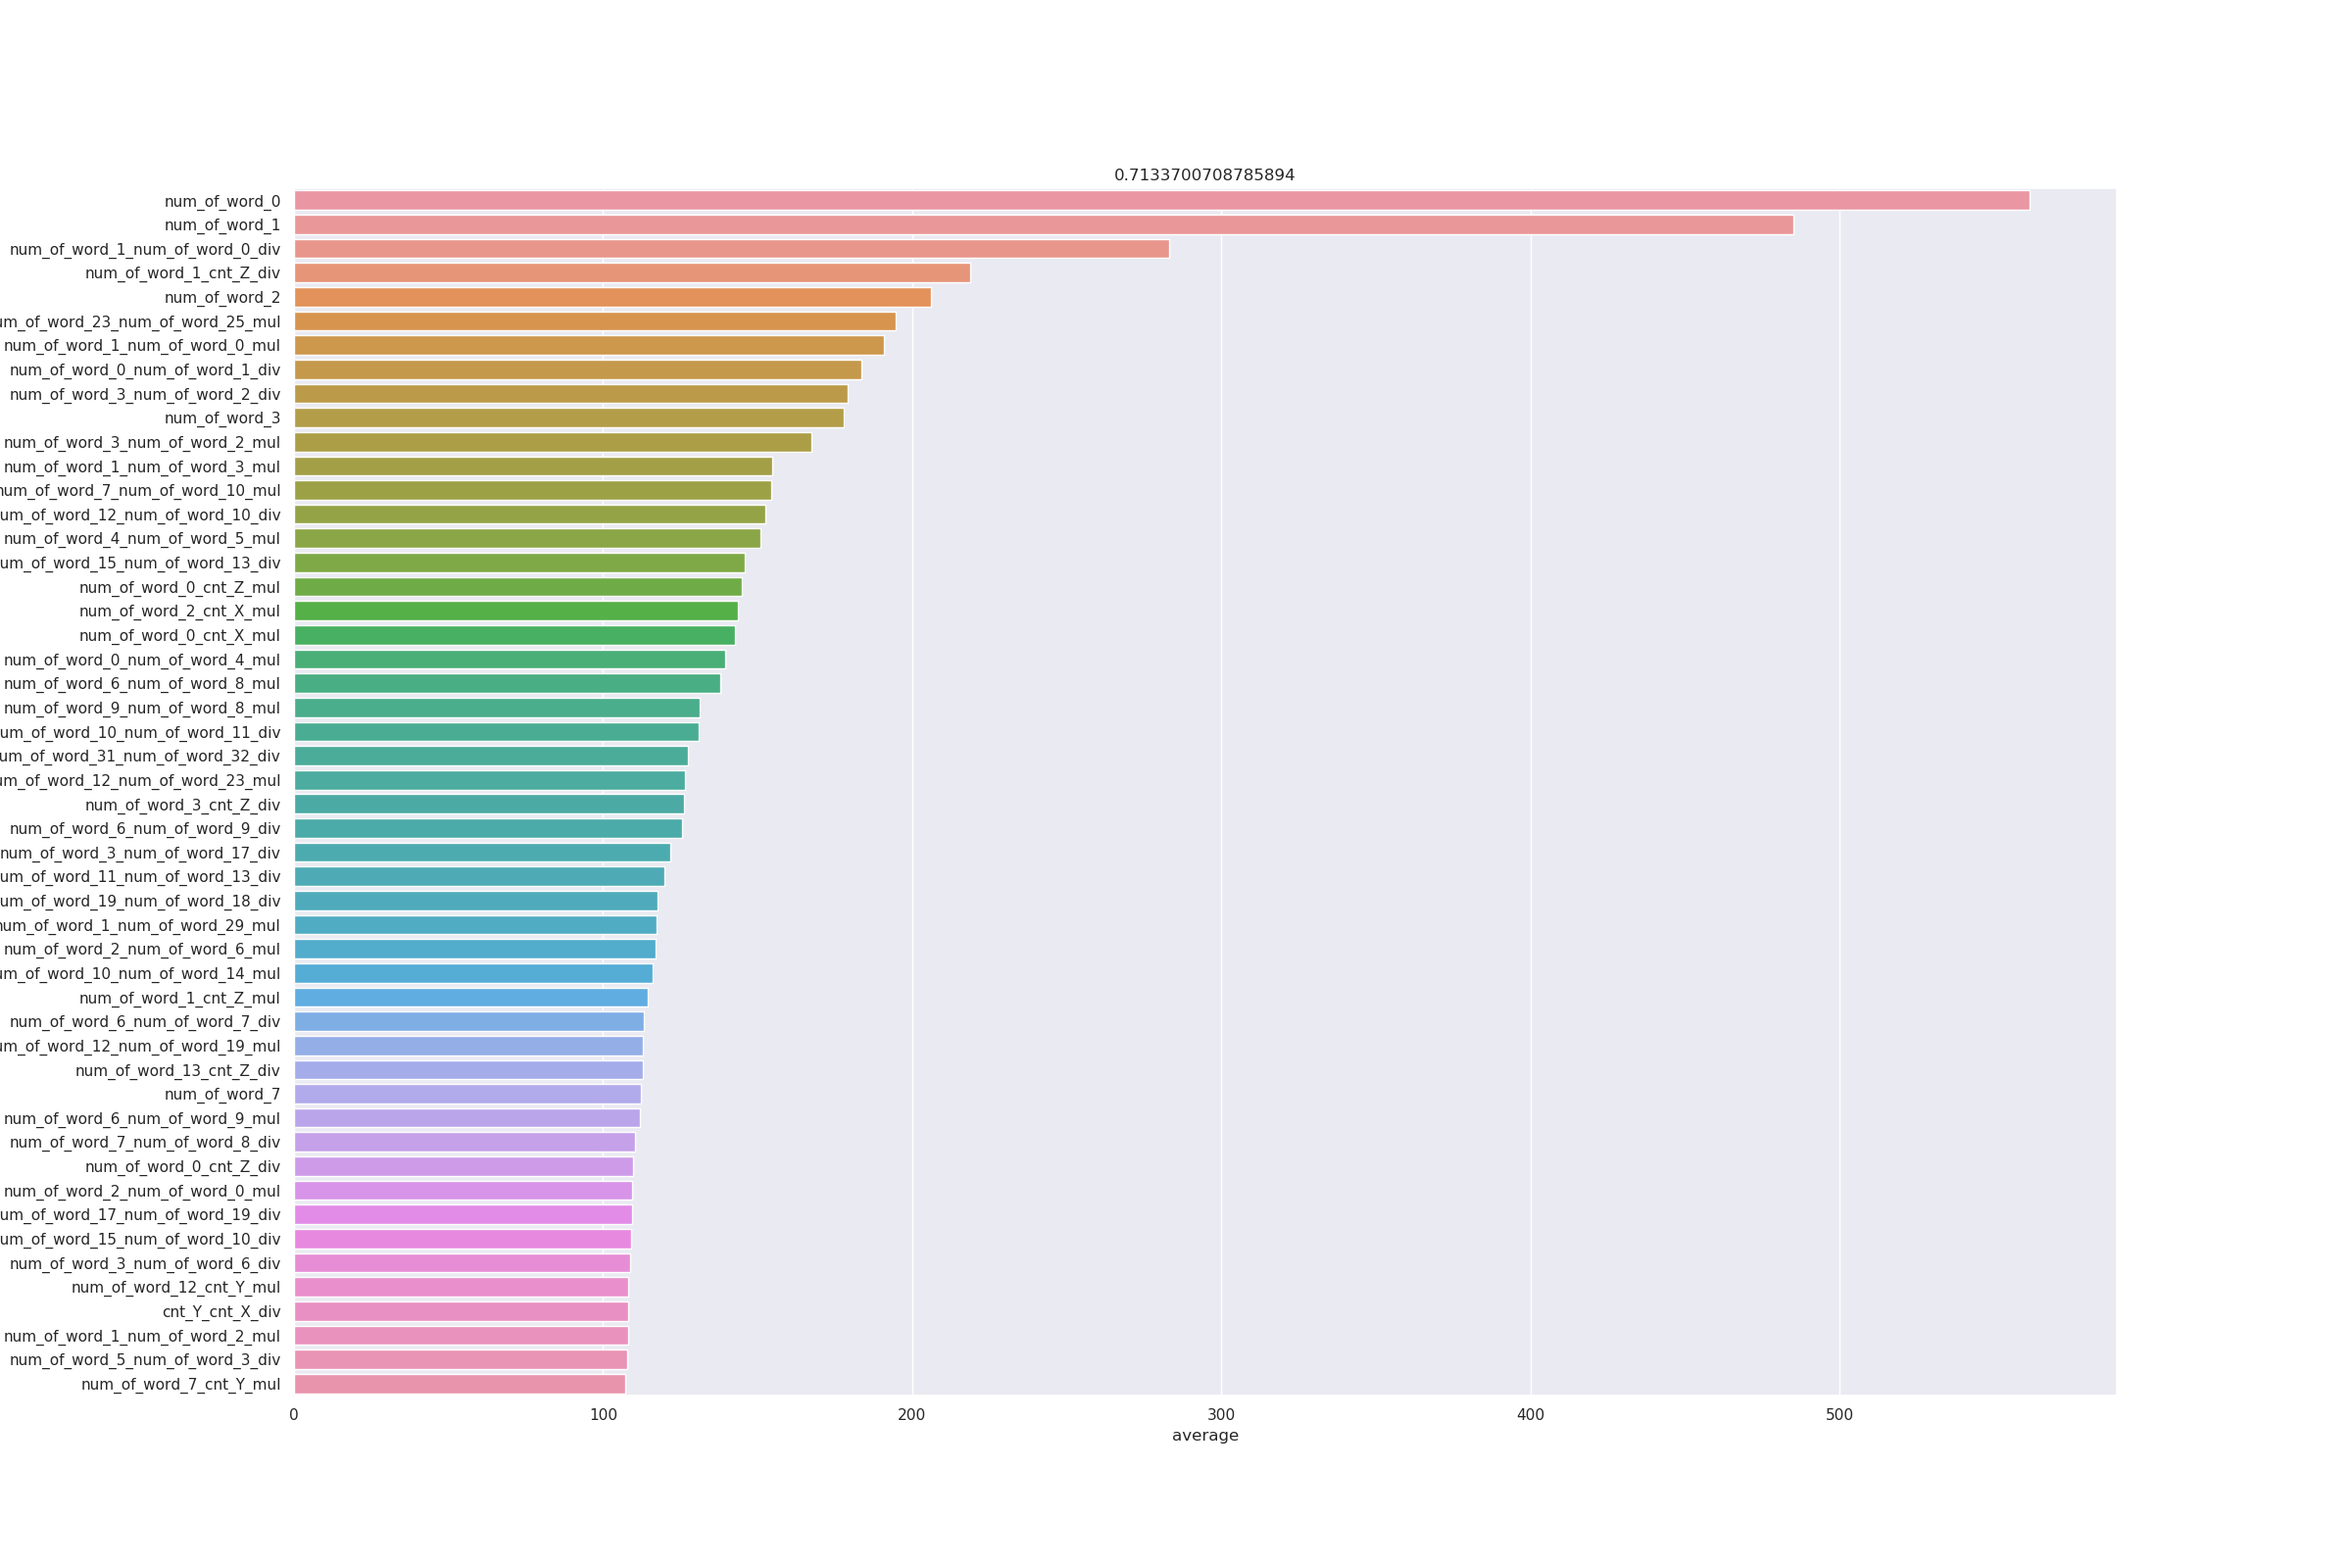
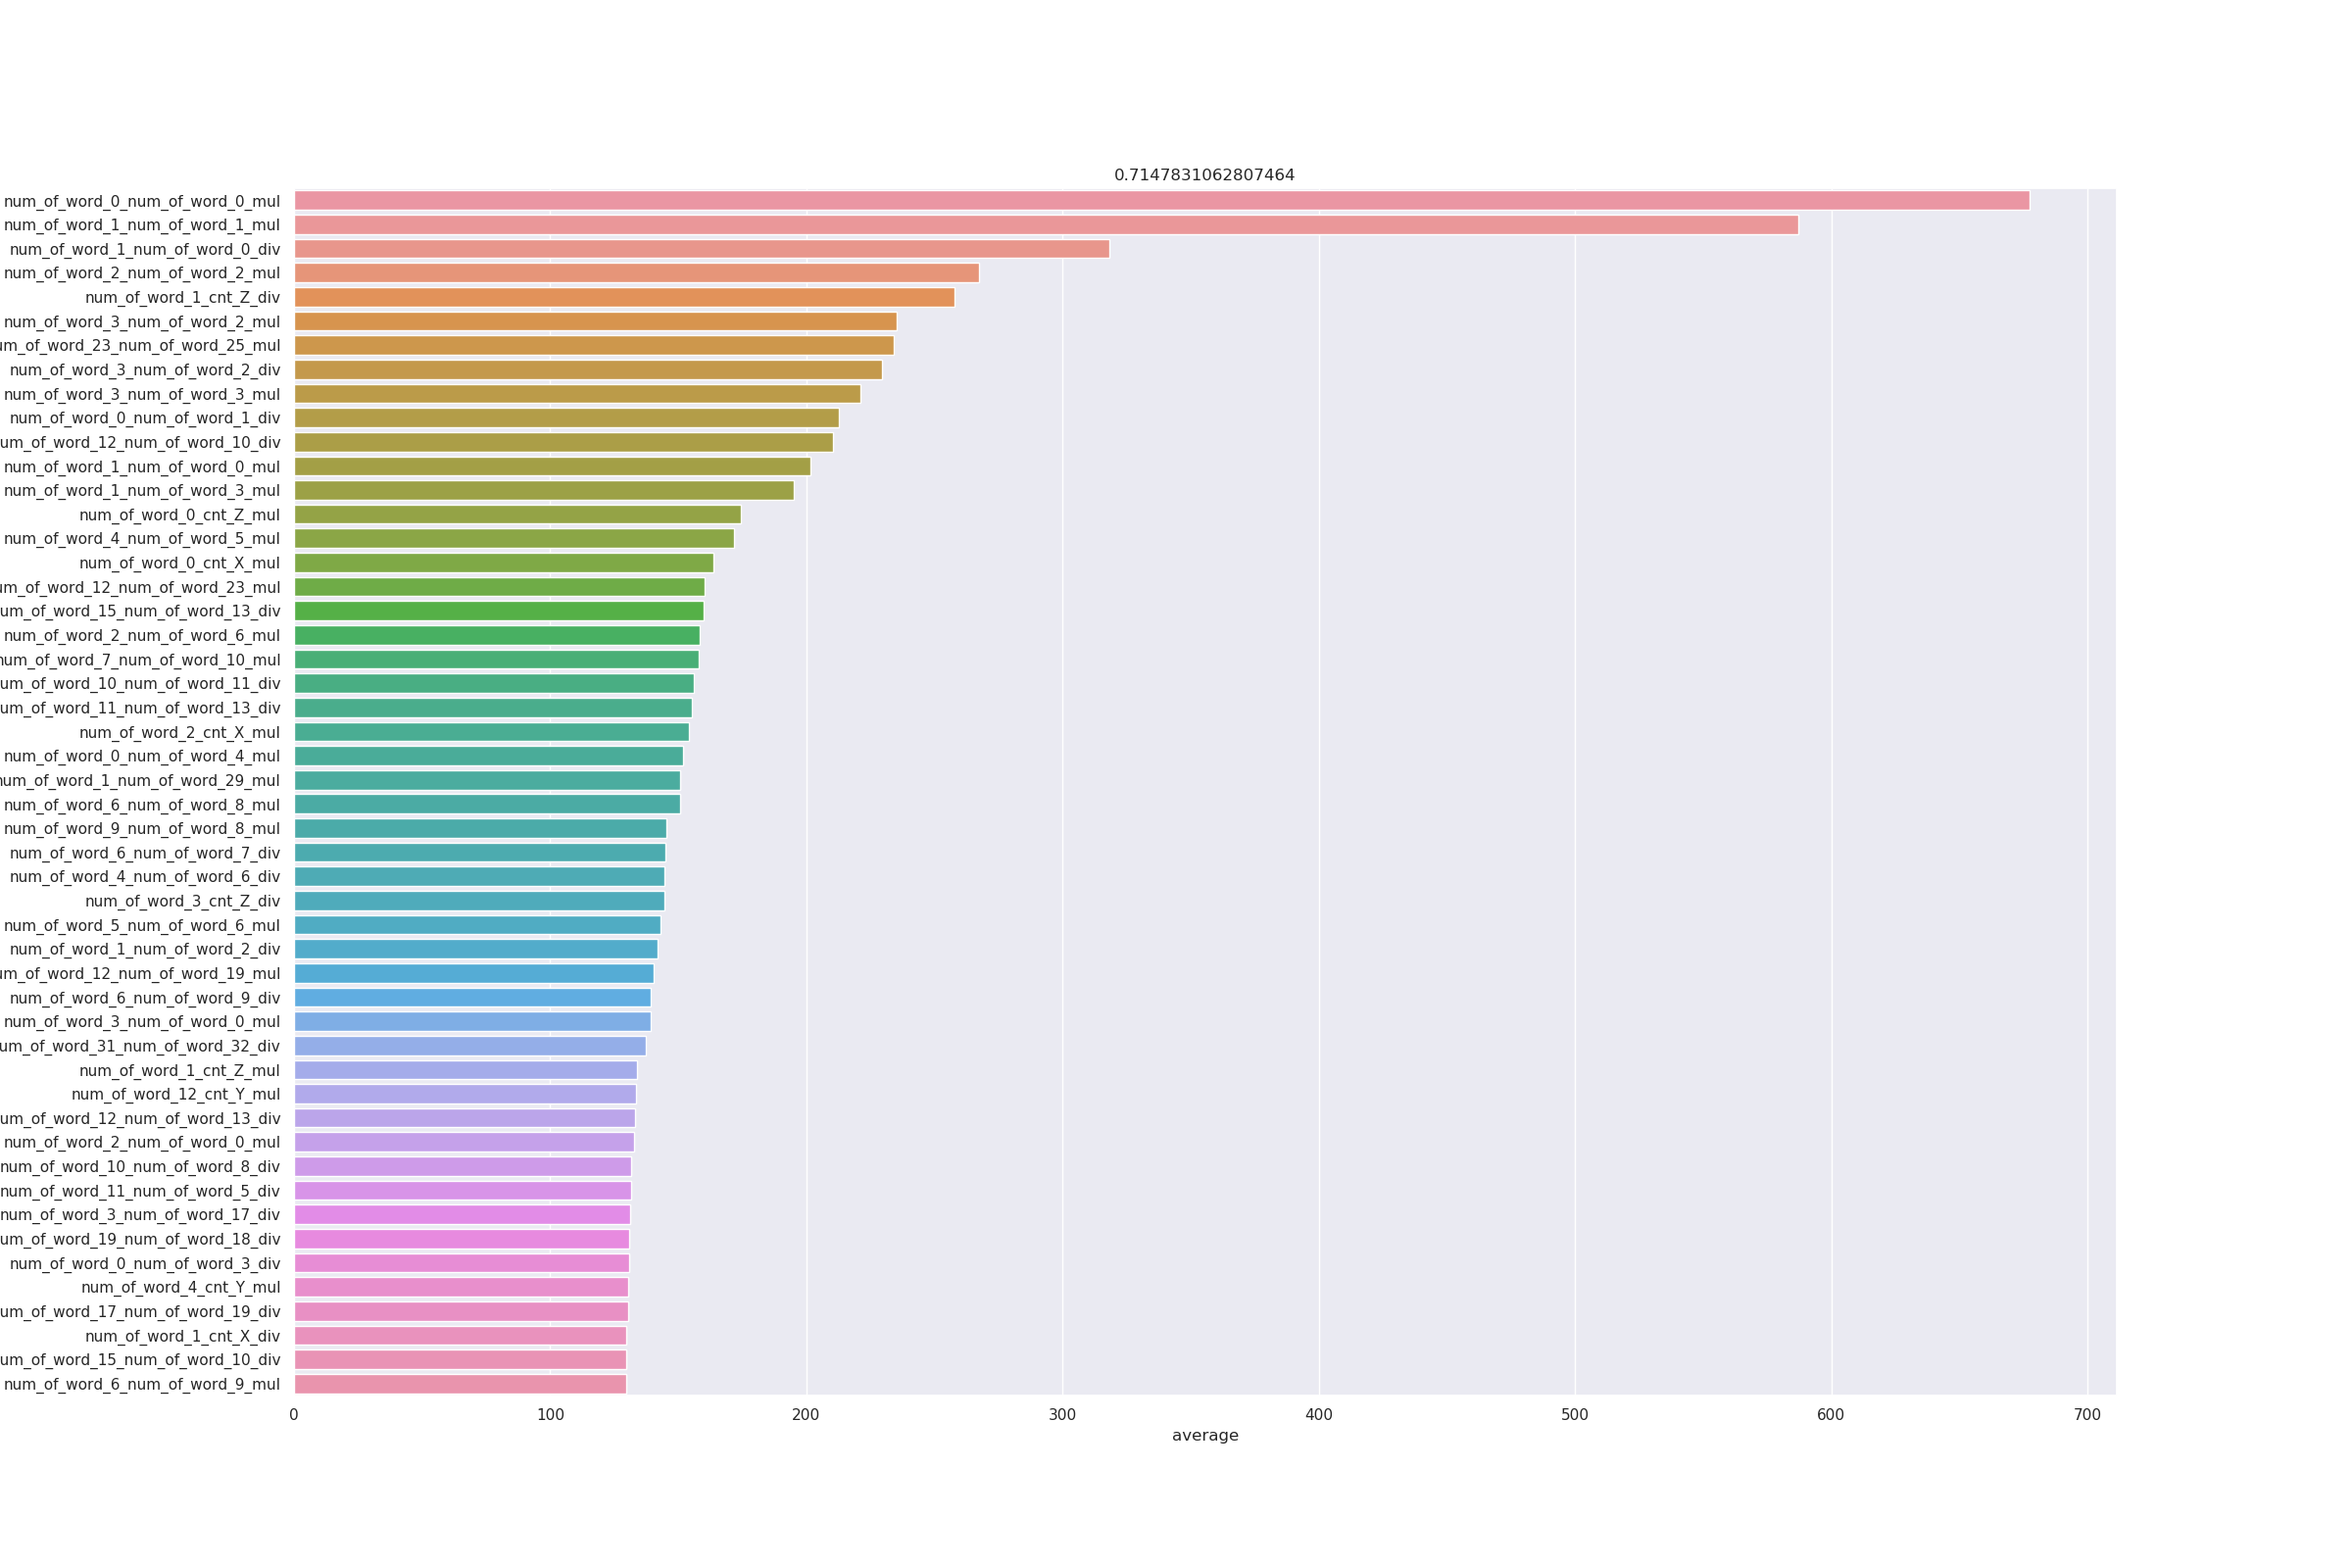
a

diff --git a/bin/train_lgbm.py b/bin/train_lgbm.py
@@ -51,7 +51,7 @@ X=X.loc[:,use_col]
 
 del_list=["num_of_word_0","num_of_word_1","num_of_word_2","num_of_word_3"]
 #del_list=["num_of_word_0_num_of_word_0_mul","num_of_word_1_num_of_word_1_mul"]
-#X.drop(del_list,axis=1,inplace=True)
+X.drop(del_list,axis=1,inplace=True)
 
 # config
 NFOLDS = 5
